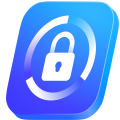
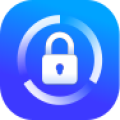
add: change iconified

diff --git a/public/index.html b/public/index.html
@@ -25,9 +25,9 @@
     <meta property="og:description" content="Митап Конфиденциальные вычисления в МГТУ им. Н.Э. Баумана и QApp" />
     <meta property="og:url" content="/index.html" />
     <meta property="og:locale" content="ru_RU" />
-    <meta property="og:image" content="/images/image.jpg" />
-    <meta property="og:image:width" content="1080" />
-    <meta property="og:image:height" content="1080" />
+    <meta property="og:image" content="/images/image.png" />
+    <meta property="og:image:width" content="95" />
+    <meta property="og:image:height" content="95" />
 
     <meta name="twitter:card" content="summary_large_image" />
     <meta name="twitter:title" content="Конфиденциальные вычисления" />
@@ -35,7 +35,7 @@
       name="twitter:description"
       content="Митап в МГТУ им. Н.Э. Баумана от компании QApp по технологии конфиденциальных вычислений (SMPC). Совместные вычисления над данными без их обмена между сторонами с сохранением конфиденциальности!"
     />
-    <meta name="twitter:image:src" content="/images/image.jpg" />
+    <meta name="twitter:image:src" content="/images/image.png" />
     <meta name="twitter:url" content="/index.html" />
   </head>
   <body>
